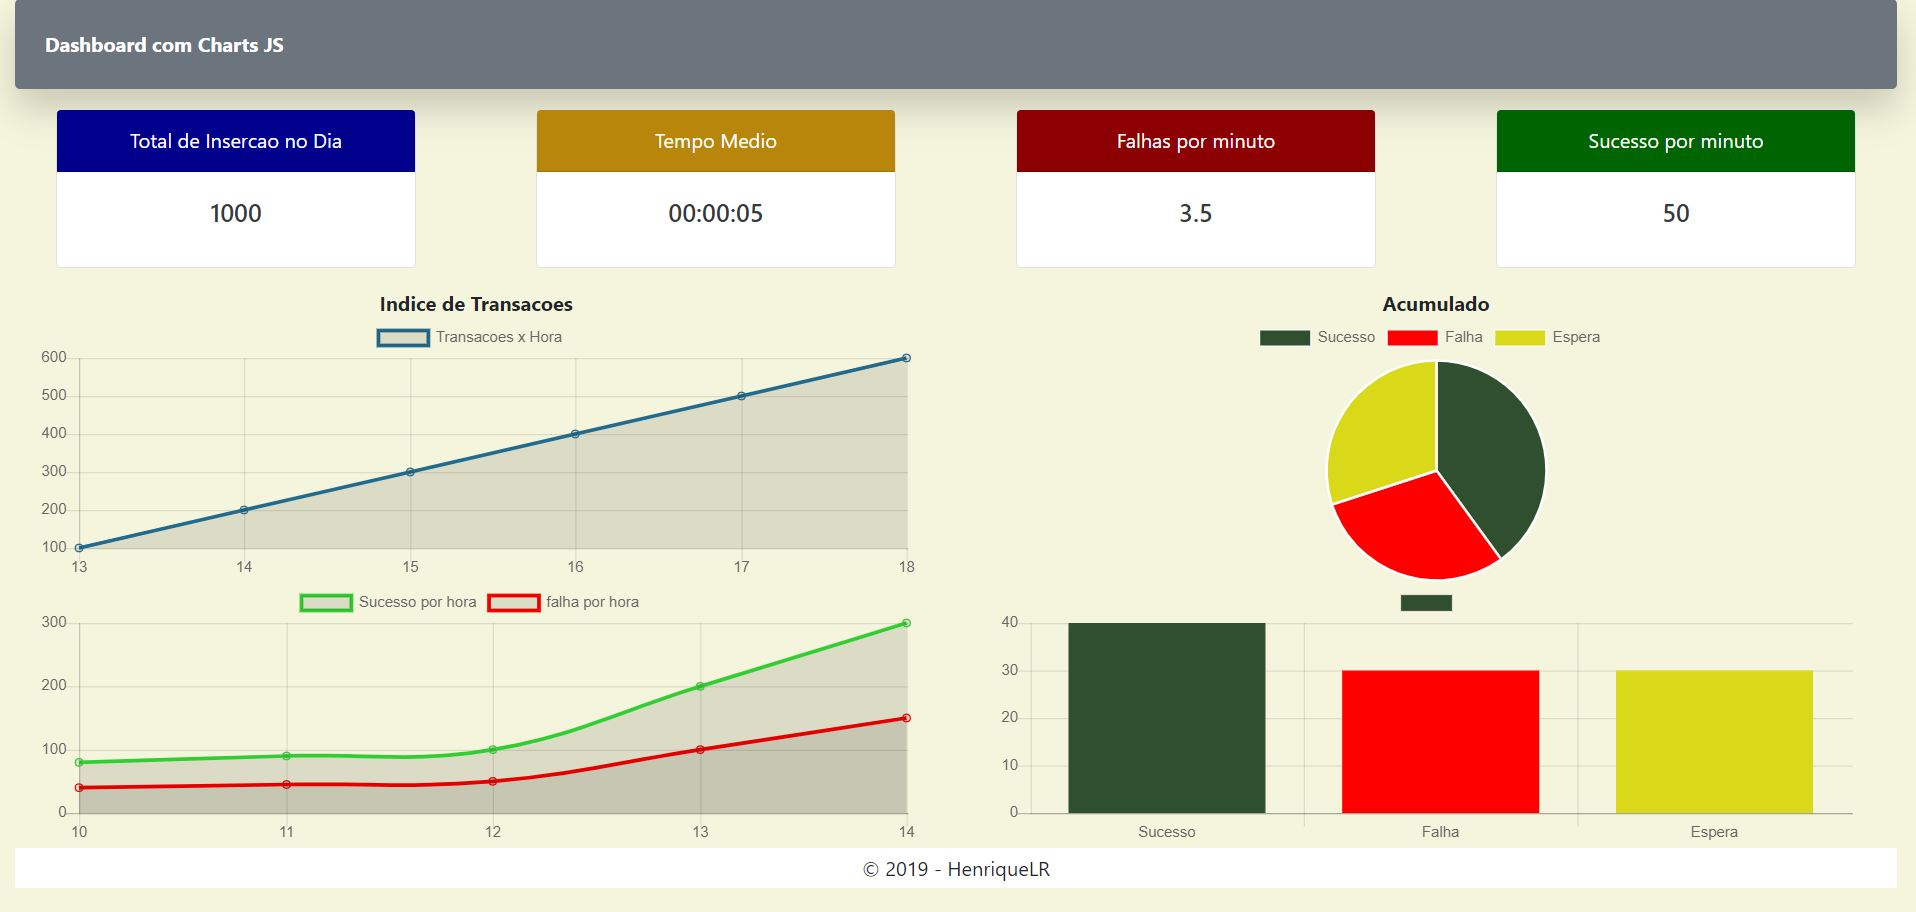
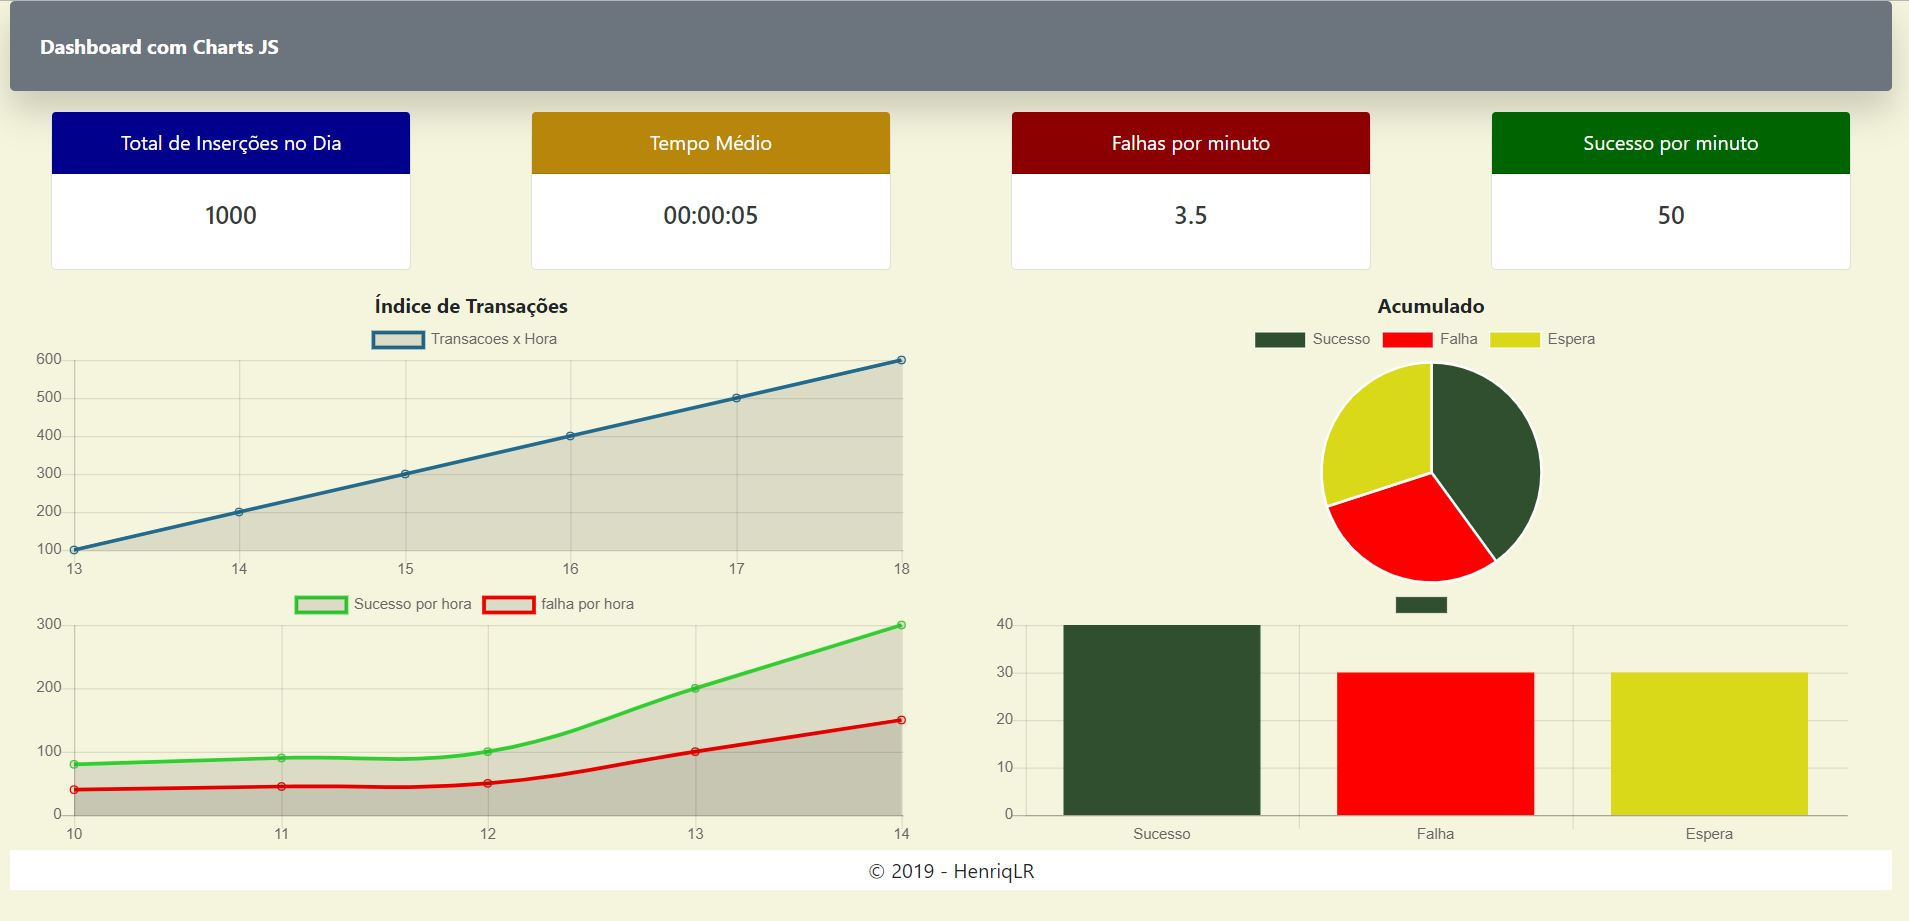
Desenvolvimento do Projeto

diff --git a/index.html b/index.html
@@ -20,7 +20,7 @@
         <div class="row">
             <div class="col">
                 <div class="card mb-3" style="max-width: 18rem;">
-                    <div class="card-header text-white text-center" style="background-color:darkblue">Total de Insercao no Dia</div>
+                    <div class="card-header text-white text-center" style="background-color:darkblue">Total de Inserções no Dia</div>
                     <div class="card-body text-dark">
                         <h5 class="card-title text-center">1000</h5>                        
                     </div>
@@ -28,7 +28,7 @@
             </div>            
             <div class="col">
                 <div class="card mb-3" style="max-width: 18rem;">
-                    <div class="card-header text-white text-center" style="background-color:darkgoldenrod">Tempo Medio</div>
+                    <div class="card-header text-white text-center" style="background-color:darkgoldenrod">Tempo Médio</div>
                     <div class="card-body text-dark">
                         <h5 class="card-title text-center">00:00:05</h5>                        
                     </div>
@@ -54,7 +54,7 @@
 
         <div class="row">
         <div class="col text-center">
-        <b>Indice de Transacoes</b>
+        <b>Índice de Transações</b>
         </div>
         <div class="col text-center">
         <b>Acumulado</b>
